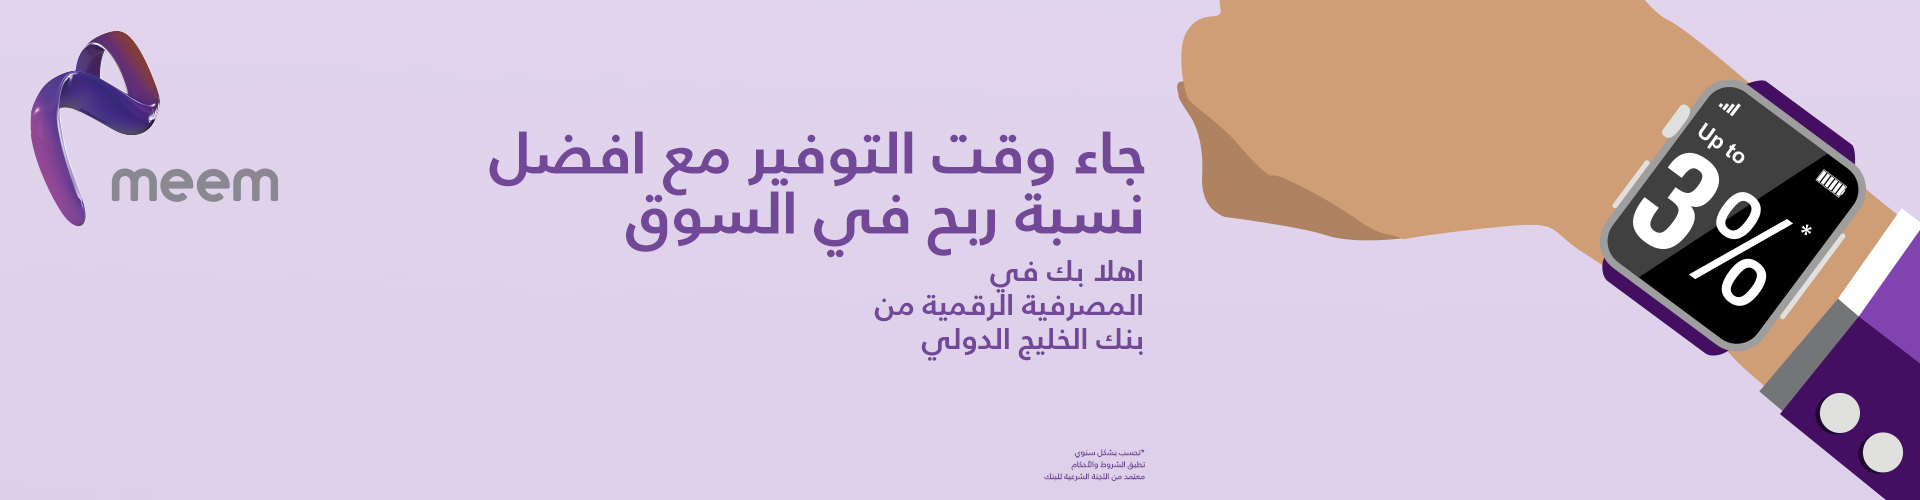
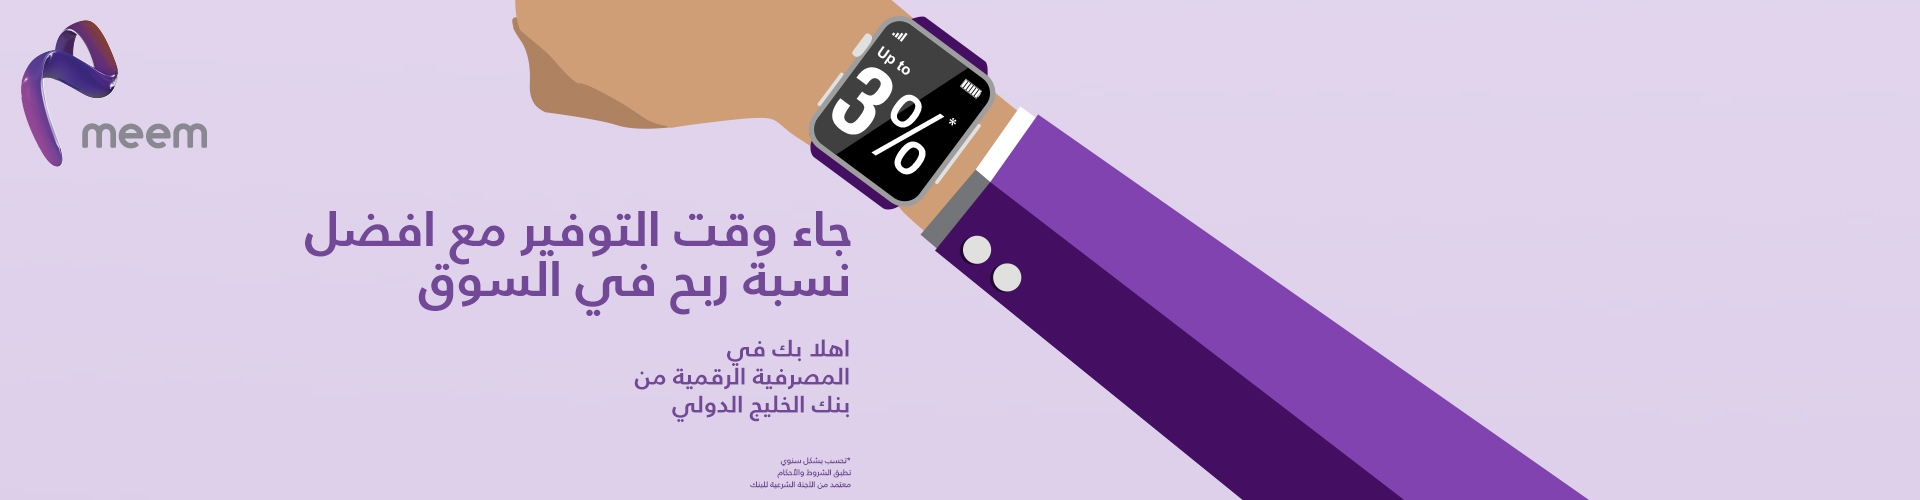
Update stylesheets and desktop images

diff --git a/resources/styles/responsive-leyouts-ar.css b/resources/styles/responsive-leyouts-ar.css
@@ -240,9 +240,9 @@
         height: 450px;
         color: #fff;
         text-align: right;
-        margin-top: 100px;
+        margin-top: 110px;
         padding: 70px 200px 90px 0;
-        background: #999 url(/resources/images/offers/p-4-1-offer/offer-p-4-1_1170x450-ar.jpg) no-repeat center top;
+        background: #999 url(/resources/images/offers/p-4-1-offer/offer-p-4-1_1170x450-ar.jpg) no-repeat left top;
     }
     .page_titleP6 {
         position: relative;
@@ -909,7 +909,7 @@
         text-align: right;
         margin-top: 100px;
         padding: 70px 200px 90px 0;
-        background: #999 url(/resources/images/offers/p-4-1-offer/offer-p-4-1_1000x400-ar.jpg) no-repeat center top;
+        background: #999 url(/resources/images/offers/p-4-1-offer/offer-p-4-1_1000x400-ar.jpg) no-repeat left top;
     }
     .page_titleP6 {
         position: relative;
@@ -1247,7 +1247,7 @@
         text-align: right;
         margin-top: 100px;
         padding: 70px 200px 90px 0;
-        background: #999 url(/resources/images/offers/p-4-1-offer/offer-p-4-1_970x400-ar.jpg) no-repeat center top;
+        background: #999 url(/resources/images/offers/p-4-1-offer/offer-p-4-1_970x400-ar.jpg) no-repeat left top;
     }
     .page_titleP6 {
         position: relative;
@@ -2401,7 +2401,7 @@
         text-align: right;
         margin-top: 100px;
         padding: 70px 200px 90px 0;
-        background: #999 url(/resources/images/offers/p-4-1-offer/offer-p-4-1_780x350-ar.jpg) no-repeat center top;
+        background: #999 url(/resources/images/offers/p-4-1-offer/offer-p-4-1_780x350-ar.jpg) no-repeat right top;
     }
     .page_titleP6 {
         position: relative;
@@ -3905,9 +3905,9 @@
         height: 300px;
         color: #fff;
         text-align: right;
-        margin-top: 110px;
+        margin-top: 120px;
         padding: 70px 200px 90px 0;
-        background: #999 url(/resources/images/offers/p-4-1-offer/offer-p-4-1_640x300-ar.jpg) no-repeat center top;
+        background: #999 url(/resources/images/offers/p-4-1-offer/offer-p-4-1_640x300-ar.jpg) no-repeat right top;
     }
     .page_titleP6 {
         position: relative;
@@ -5445,7 +5445,7 @@
         text-align: right;
         margin-top: 100px;
         padding: 70px 200px 90px 0;
-        background: #999 url(/resources/images/offers/p-4-1-offer/offer-p-4-1_479x300-ar.jpg) no-repeat center top;
+        background: #999 url(/resources/images/offers/p-4-1-offer/offer-p-4-1_479x300-ar.jpg) no-repeat right top;
     }
 
     .page_titleP6 {

diff --git a/resources/styles/responsive-leyouts.css b/resources/styles/responsive-leyouts.css
@@ -247,7 +247,7 @@
         text-align: left;
         margin-top: 120px;
         padding: 75px 0 90px 200px;
-        background: #999 url(/resources/images/offers/p-4-1-offer/offer-p-4-1_1170x450-en.jpg) no-repeat center top;
+        background: #999 url(/resources/images/offers/p-4-1-offer/offer-p-4-1_1170x450-en.jpg) no-repeat right top;
     }
 
     .page_titleP6 {
@@ -909,7 +909,7 @@
         text-align: left;
         margin-top: 110px;
         padding: 75px 0 90px 200px;
-        background: #999 url(/resources/images/offers/p-4-1-offer/offer-p-4-1_1000x400-en.jpg) no-repeat center top;
+        background: #999 url(/resources/images/offers/p-4-1-offer/offer-p-4-1_1000x400-en.jpg) no-repeat right top;
     }
 
     .page_titleP6 {
@@ -1247,7 +1247,7 @@
         text-align: left;
         margin-top: 100px;
         padding: 75px 0 90px 200px;
-        background: #999 url(/resources/images/offers/p-4-1-offer/offer-p-4-1_970x400-en.jpg) no-repeat center top;
+        background: #999 url(/resources/images/offers/p-4-1-offer/offer-p-4-1_970x400-en.jpg) no-repeat right top;
     }
 
     .page_titleP6 {
@@ -2399,7 +2399,7 @@
         text-align: left;
         margin-top: 100px;
         padding: 75px 0 90px 200px;
-        background: #999 url(/resources/images/offers/p-4-1-offer/offer-p-4-1_780x350-en.jpg) no-repeat center top;
+        background: #999 url(/resources/images/offers/p-4-1-offer/offer-p-4-1_780x350-en.jpg) no-repeat left top;
     }
 
     .page_titleP6 {
@@ -3916,9 +3916,9 @@
         height: 300px;
         color: #fff;
         text-align: left;
-        margin-top: 100px;
+        margin-top: 115px;
         padding: 75px 0 90px 200px;
-        background: #999 url(/resources/images/offers/p-4-1-offer/offer-p-4-1_640x300-en.jpg) no-repeat center top;
+        background: #999 url(/resources/images/offers/p-4-1-offer/offer-p-4-1_640x300-en.jpg) no-repeat left top;
     }
 
     .page_titleP6 {
@@ -5537,7 +5537,7 @@
         text-align: left;
         margin-top: 100px;
         padding: 75px 0 90px 200px;
-        background: #999 url(/resources/images/offers/p-4-1-offer/offer-p-4-1_479x300-en.jpg) no-repeat center top;
+        background: #999 url(/resources/images/offers/p-4-1-offer/offer-p-4-1_479x300-en.jpg) no-repeat left top;
     }
 
     .page_titleP6 {

diff --git a/resources/styles/style.css b/resources/styles/style.css
@@ -9120,9 +9120,9 @@ ul.footer_social_links5 {
     height: 500px;
     color: #fff;
     text-align: left;
-    margin-top: 100px;
+    margin-top: 105px;
     padding: 75px 0 90px 200px;
-    background: #999 url(/resources/images/offers/p-4-1-offer/offer-p-4-1_1920X500_desktop-en.jpg) no-repeat center top;
+    background: #999 url(/resources/images/offers/p-4-1-offer/offer-p-4-1_1920X500-en.jpg) no-repeat right top;
 }
 
 .page_titleP6 {

diff --git a/resources/styles/style-ar.css b/resources/styles/style-ar.css
@@ -8120,9 +8120,9 @@ ul.footer_social_links5 {
 	height: 500px;
 	color: #fff;
 	text-align: right;
-	margin-top: 100px;
+	margin-top: 105px;
 	padding: 70px 200px 90px 0;
-	background: #999 url(/resources/images/offers/p-4-1-offer/offer-p-4-1_1920X500_desktop-ar.jpg) no-repeat center top;
+	background: #999 url(/resources/images/offers/p-4-1-offer/offer-p-4-1_1920X500-ar.jpg) no-repeat left top;
 }
 
 .page_titleP6 {
